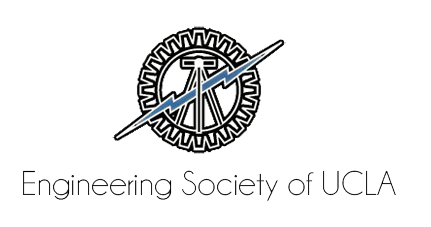
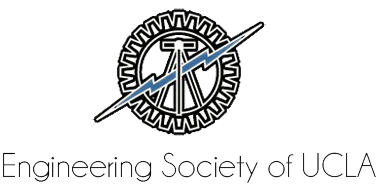
some more

diff --git a/css/main.css b/css/main.css
@@ -573,6 +573,7 @@ hr {
 	height:200px;
 	width:300px;
 	background: url(../img/esuc.png);
+	background-position: center;
 	background-size: contain;
 	background-repeat: no-repeat;
 	background-color: white; 
@@ -587,7 +588,7 @@ hr {
 	display: block;
 	height:200px;
 	width:300px;
-	background: url(../img/be.jpg);
+	background: url(../img/be.png);
 	background-size: 100% 100%;
 	background-repeat: no-repeat;
 	margin-bottom: 20px;
